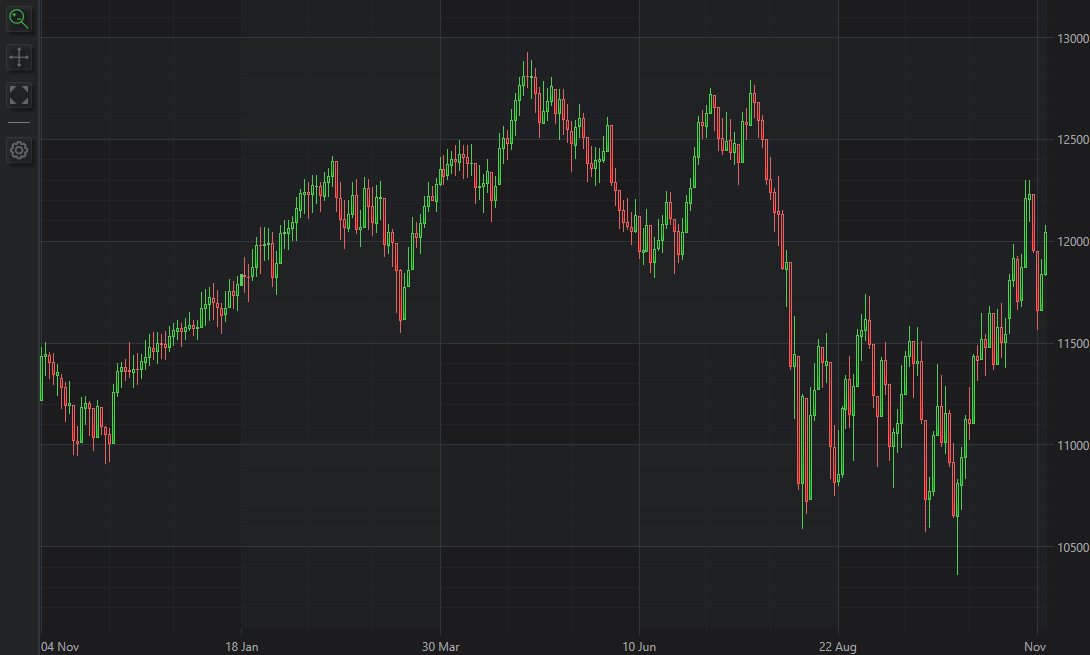
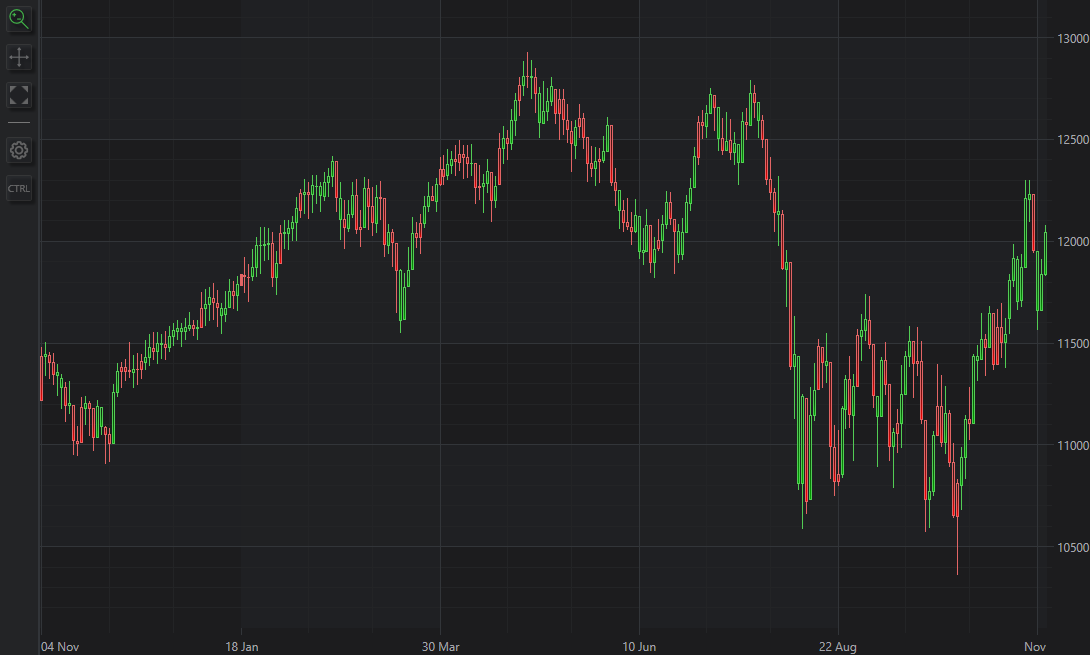
SciChart version 6.6.0.26489

diff --git a/Examples/SciChart.Examples/Examples/CreateSimpleChart/CandlestickChart/CandlestickChartExampleView.xaml b/Examples/SciChart.Examples/Examples/CreateSimpleChart/CandlestickChart/CandlestickChartExampleView.xaml
@@ -3,12 +3,12 @@
              xmlns:x="http://schemas.microsoft.com/winfx/2006/xaml"
              xmlns:s="http://schemas.abtsoftware.co.uk/scichart"
              xmlns:ext="http://schemas.abtsoftware.co.uk/scichart/exampleExternals"
-             Loaded="CandlestickChartExampleView_OnLoaded"
-             xmlns:mc="http://schemas.openxmlformats.org/markup-compatibility/2006"
-             xmlns:d="http://schemas.microsoft.com/expression/blend/2008"             
-             d:DesignHeight="400"
-             d:DesignWidth="600"
-             mc:Ignorable="d">
+             xmlns:local="clr-namespace:SciChart.Examples.Examples.CreateSimpleChart"
+             Loaded="CandlestickChartExampleView_OnLoaded">
+
+    <UserControl.Resources>
+        <local:HollowSolidPaletteProvider x:Key="HollowSolidPaletteProvider" FillNeutral="Gray"/>
+    </UserControl.Resources>
 
     <Grid>
         <Grid.ColumnDefinitions>
@@ -19,7 +19,17 @@
         <!-- The SciChartInteractionToolbar adds zoom, pan, zoom extents and rotate functionality -->
         <!-- to the chart and is included for example purposes. -->
         <!-- If you wish to know how to zoom and pan a chart then do a search for Zoom Pan in the Examples suite! -->
-        <ext:SciChartInteractionToolbar TargetSurface="{Binding Source={x:Reference Name=sciChart}}" />
+        <ext:SciChartInteractionToolbar TargetSurface="{Binding Source={x:Reference Name=sciChart}}">
+            <ext:FlyoutMenuButton Style="{StaticResource FlyoutMenuButtonStyle}" Content="CTRL" FontSize="10" Padding="0">
+                <ext:FlyoutMenuButton.PopupContent>
+                    <StackPanel Orientation="Vertical">
+                        <TextBlock FontSize="12" Text="Candlestick Chart"/>
+                        <RadioButton FontSize="12" Margin="4" Style="{StaticResource CheckRadioBtn}" Content="Regular" IsChecked="True"/>
+                        <RadioButton FontSize="12" Margin="4" Style="{StaticResource CheckRadioBtn}" Content="Hollow/Solid" x:Name="chHollowSolid"/>
+                    </StackPanel>
+                </ext:FlyoutMenuButton.PopupContent>
+            </ext:FlyoutMenuButton>
+        </ext:SciChartInteractionToolbar>
 
         <!--  Create the chart surface  -->
         <s:SciChartSurface Name="sciChart" Grid.Column="1"
@@ -33,33 +43,42 @@
                 <s:FastCandlestickRenderableSeries x:Name="candlestickSeries">
                     <s:FastCandlestickRenderableSeries.FillUp>
                         <LinearGradientBrush StartPoint="0,0" EndPoint="0,1">
-                            <GradientStop Offset="0" Color="#55002200" />
-                            <GradientStop Offset="1" Color="#FF00AA00" />
+                            <GradientStop Offset="0" Color="#55002200"/>
+                            <GradientStop Offset="1" Color="#FF00AA00"/>
                         </LinearGradientBrush>
                     </s:FastCandlestickRenderableSeries.FillUp>
                     <s:FastCandlestickRenderableSeries.FillDown>
                         <LinearGradientBrush StartPoint="0,0" EndPoint="0,1">
-                            <GradientStop Offset="0" Color="#55441111" />
-                            <GradientStop Offset="1" Color="#FFFF0000" />
+                            <GradientStop Offset="0" Color="#55441111"/>
+                            <GradientStop Offset="1" Color="#FFFF0000"/>
                         </LinearGradientBrush>
                     </s:FastCandlestickRenderableSeries.FillDown>
                     <s:FastCandlestickRenderableSeries.SeriesAnimation>
                         <s:SweepAnimation AnimationDelay="0:0:1" Duration="0:0:4"/>
                     </s:FastCandlestickRenderableSeries.SeriesAnimation>
+                    <s:FastCandlestickRenderableSeries.Style>
+                        <Style TargetType="s:FastCandlestickRenderableSeries">
+                            <Setter Property="PaletteProvider" Value="{x:Null}"/>
+                            <Style.Triggers>
+                                <DataTrigger Binding="{Binding IsChecked, ElementName=chHollowSolid}" Value="True">
+                                    <Setter Property="PaletteProvider" Value="{StaticResource HollowSolidPaletteProvider}"/>
+                                </DataTrigger>
+                            </Style.Triggers>
+                        </Style>
+                    </s:FastCandlestickRenderableSeries.Style>
                 </s:FastCandlestickRenderableSeries>
             </s:SciChartSurface.RenderableSeries>
 
             <!--  Create an X Axis  -->
             <s:SciChartSurface.XAxis>
-                <s:CategoryDateTimeAxis DrawMajorBands="True" />
+                <s:CategoryDateTimeAxis DrawMajorBands="True"/>
             </s:SciChartSurface.XAxis>
 
             <!--  Create a Y Axis with GrowBy  -->
             <s:SciChartSurface.YAxis>
-                <s:NumericAxis GrowBy="0.1, 0.1" DrawMajorBands="True" />
+                <s:NumericAxis GrowBy="0.1, 0.1" DrawMajorBands="True"/>
             </s:SciChartSurface.YAxis>
 
         </s:SciChartSurface>
     </Grid>
-
 </UserControl>

diff --git a/Examples/SciChart.Examples.ExternalDependencies/Data/DataManager.cs b/Examples/SciChart.Examples.ExternalDependencies/Data/DataManager.cs
@@ -76,6 +76,11 @@ namespace SciChart.Examples.ExternalDependencies.Data
         {
             return GetPriceData(string.Format("{0}_{1}", dataset, timeFrame));
         }
+
+        public PriceSeries GetPriceData(string dataset, TimeFrame timeFrame, bool swapOpenClose)
+        {
+            return GetPriceData(string.Format("{0}_{1}", dataset, timeFrame), swapOpenClose);
+        }
         
         public DoubleSeries GetDampedSinewave(double amplitude, double dampingFactor, int pointCount, int freq = 10)
         {
@@ -440,46 +445,62 @@ namespace SciChart.Examples.ExternalDependencies.Data
             return _acousticPlotData[channelNumber];
         }
 
-        public PriceSeries GetPriceData(string dataset)
+        public PriceSeries GetPriceData(string dataset, bool swapOpenClose = false)
         {
-            if (_dataSets.ContainsKey(dataset))
-            {
-                return _dataSets[dataset];
-            }
-
+            var dataSetKey = swapOpenClose ? $"{dataset}_OCSwap" : dataset;
+            if (_dataSets.ContainsKey(dataSetKey))
+                return _dataSets[dataSetKey];           
+            
             // e.g. resource format: SciChart.Examples.ExternalDependencies.Resources.Data.EURUSD_Daily.csv 
             var csvResource = string.Format("{0}.{1}", ResourceDirectory, Path.ChangeExtension(dataset, "csv.gz"));
-
-            var priceSeries = new PriceSeries();
-            priceSeries.Symbol = dataset;
-
+            var priceSeries = new PriceSeries {Symbol = dataset};
             var assembly = typeof(DataManager).Assembly;
-            // Debug.WriteLine(string.Join(", ", assembly.GetManifestResourceNames()));
+
             using (var stream = assembly.GetManifestResourceStream(csvResource))
             using (var gz = new GZipStream(stream, CompressionMode.Decompress))
             using (var streamReader = new StreamReader(gz))
             {
-                string line = streamReader.ReadLine();
+                var lineIndex = 0;
+                var line = streamReader.ReadLine();
+
                 while (line != null)
                 {
                     var priceBar = new PriceBar();
-                    // Line Format: 
+
                     // Date, Open, High, Low, Close, Volume 
                     // 2007.07.02 03:30, 1.35310, 1.35310, 1.35280, 1.35310, 12 
                     var tokens = line.Split(',');
-                    priceBar.DateTime = DateTime.Parse(tokens[0], DateTimeFormatInfo.InvariantInfo);
+
+                    priceBar.DateTime = DateTime.Parse(tokens[0], DateTimeFormatInfo.InvariantInfo);                  
                     priceBar.Open = double.Parse(tokens[1], NumberFormatInfo.InvariantInfo);
                     priceBar.High = double.Parse(tokens[2], NumberFormatInfo.InvariantInfo);
                     priceBar.Low = double.Parse(tokens[3], NumberFormatInfo.InvariantInfo);
                     priceBar.Close = double.Parse(tokens[4], NumberFormatInfo.InvariantInfo);
                     priceBar.Volume = long.Parse(tokens[5], NumberFormatInfo.InvariantInfo);
+
+                    if (swapOpenClose)
+                    {
+                        if (lineIndex % 5 == 0)
+                        {
+                            var open = priceBar.Open;
+                            var close = priceBar.Close;
+
+                            priceBar.Open = close;
+                            priceBar.Close = open;
+                        }
+                        
+                        if (lineIndex > 0 && lineIndex % 20 == 0)
+                            priceSeries[lineIndex - 1].Close = priceBar.Close;                       
+                    }
+
                     priceSeries.Add(priceBar);
 
+                    lineIndex++;
                     line = streamReader.ReadLine();
                 }
             }
 
-            _dataSets.Add(dataset, priceSeries);
+            _dataSets.Add(dataSetKey, priceSeries);
 
             return priceSeries;
         }

diff --git a/Examples/SciChart.Examples.Demo/Helpers/Example.cs b/Examples/SciChart.Examples.Demo/Helpers/Example.cs
@@ -19,7 +19,6 @@ using System.Collections.Generic;
 using System.Text.RegularExpressions;
 using System.Windows.Input;
 using SciChart.Examples.Demo.Common;
-using SciChart.UI.Reactive.Services;
 
 namespace SciChart.Examples.Demo.Helpers
 {
@@ -62,7 +61,9 @@ namespace SciChart.Examples.Demo.Helpers
                 .Replace("[/b][/i]", "</em></strong>")
                 .Replace("[/i][/b]", "</em></strong>")
                 .Replace("[/b]", "</strong>")
-                .Replace("[/i]", "</em>");
+                .Replace("[/i]", "</em>")
+                .Replace("[gt]", "&gt;")
+                .Replace("[lt]", "&lt;");
 
             const string replace = "<a href=\"$1\" target=\"_blank\">$2</a>";
 
@@ -86,37 +87,11 @@ namespace SciChart.Examples.Demo.Helpers
                 .Replace("[/b][/i]", "</Run>")
                 .Replace("[/i][/b]", "</Run>")
                 .Replace("[/b]", "</Run>")
-                .Replace("[/i]", "</Run>");
+                .Replace("[/i]", "</Run>")
+                .Replace("[gt]", "&gt;")
+                .Replace("[lt]", "&lt;");
 
-#if SILVERLIGHT
-            const string replace = "<Hyperlink Foreground=\"{StaticResource SciChartGreenBrush}\" " +
-                                            "MouseOverForeground=\"{StaticResource SciChartDarkGreenBrush}\" " + 
-                                            "TextDecorations=\"Underline\" " + 
-                                            "MouseOverTextDecorations=\"None\" " + 
-                                            "NavigateUri=\"$1\" TargetName=\"_blank\">" + 
-                                                "<Run>$2</Run>" + 
-                                   "</Hyperlink>";
-#else 
             const string replace = "<Hyperlink Style=\"{DynamicResource HyperlinkStyle}\" NavigateUri=\"$1\"><Run>$2</Run></Hyperlink>";
-#endif
-
-            // TO dump all links out to console, uncomment 
-            // 
-
-//            Regex urlRegexShort = new Regex(@"\[url='(.*?)'?\]");
-//            var allLinks = urlRegexShort.Matches(formatted)
-//                .Cast<Match>()
-//                .Select(x => x.ToString().Replace("url=[", "").Replace("]", ""))
-//                .Distinct()
-//                .Select(y => string.Format("{0}\t{1}", this.Title, y))
-//                .OrderBy(x => x)
-//                .ToList();
-//
-//            foreach (var match in allLinks)
-//            {
-//                Trace.WriteLine(match);
-//            }
-                
 
             formatted = _urlRegex.Replace(formatted, replace);
 
@@ -138,6 +113,8 @@ namespace SciChart.Examples.Demo.Helpers
                 .Replace("[/b]", string.Empty)
                 .Replace("[i]", string.Empty)
                 .Replace("[i]", string.Empty)
+                .Replace("[gt]", ">")
+                .Replace("[lt]", "<")
                 .Trim();
 
             formatted = _urlRegex.Replace(formatted, "$2");
@@ -197,6 +174,7 @@ namespace SciChart.Examples.Demo.Helpers
                 {
                     var index = file.LastIndexOf('/') + 1;
                     var fileName = file.Substring(index).Replace(".txt", String.Empty);
+
                     _sourceFiles[fileName] = ExampleLoader.LoadSourceFile(file);
                 });
             }

diff --git a/Examples/SciChart.Examples/Examples/CreateSimpleChart/CandlestickChart/HollowSolidPaletteProvider.cs b/Examples/SciChart.Examples/Examples/CreateSimpleChart/CandlestickChart/HollowSolidPaletteProvider.cs
@@ -1,0 +1,76 @@
+// *************************************************************************************
+// SCICHART® Copyright SciChart Ltd. 2011-2022. All rights reserved.
+//  
+// Web: http://www.scichart.com
+//   Support: support@scichart.com
+//   Sales:   sales@scichart.com
+// 
+// HollowCandlesPaletteProvider.xaml.cs is part of the SCICHART® Examples. Permission is
+// hereby granted to modify, create derivative works, distribute and publish any part of
+// this source code whether for commercial, private or personal use. 
+// 
+// The SCICHART® examples are distributed in the hope that they will be useful, but
+// without any warranty. It is provided "AS IS" without warranty of any kind, either
+// expressed or implied. 
+// *************************************************************************************
+using System;
+using System.Windows.Media;
+using SciChart.Charting.Model.DataSeries;
+using SciChart.Charting.Visuals.PaletteProviders;
+using SciChart.Charting.Visuals.RenderableSeries;
+using SciChart.Core.Extensions;
+
+namespace SciChart.Examples.Examples.CreateSimpleChart
+{
+    public class HollowSolidPaletteProvider : IStrokePaletteProvider, IFillPaletteProvider
+    {
+        private IOhlcDataSeries<DateTime, double> _dataSeries;
+
+        private Brush _candleBrush;
+
+        public Brush FillUp { get; private set; }
+        public Brush FillDown { get; private set; }
+        public Brush FillNeutral { get; set; }
+
+        public void OnBeginSeriesDraw(IRenderableSeries rSeries)
+        {
+            _dataSeries = rSeries.DataSeries as IOhlcDataSeries<DateTime, double>;
+
+            if (rSeries is FastCandlestickRenderableSeries candlestickSeries)
+            {
+                FillUp = new SolidColorBrush(candlestickSeries.StrokeUp);
+
+                FillDown = new SolidColorBrush(candlestickSeries.StrokeDown);
+            }
+        }
+
+        public Color? OverrideStrokeColor(IRenderableSeries rSeries, int index, IPointMetadata metadata)
+        {
+            _candleBrush = GetBrush(index);
+
+            return _candleBrush.ExtractColor();
+        }
+
+        public Brush OverrideFillBrush(IRenderableSeries rSeries, int index, IPointMetadata metadata)
+        {
+            var open = _dataSeries.OpenValues[index];
+            var close = _dataSeries.CloseValues[index];
+
+            return close >= open ? Brushes.Transparent : _candleBrush;
+        }
+
+        private Brush GetBrush(int index)
+        {
+            var close = _dataSeries.CloseValues[index];
+            var prevClose = index > 0 ? _dataSeries.CloseValues[index - 1] : double.MinValue;
+
+            if (close > prevClose)
+                return FillUp;
+
+            if (close == prevClose)
+                return FillNeutral;
+
+            return FillDown;
+        }
+    }
+}

diff --git a/Examples/SciChart.Examples/Examples/CreateSimpleChart/CandlestickChart/CandlestickChartExampleView.xaml.cs b/Examples/SciChart.Examples/Examples/CreateSimpleChart/CandlestickChart/CandlestickChartExampleView.xaml.cs
@@ -5,9 +5,9 @@
 //   Support: support@scichart.com
 //   Sales:   sales@scichart.com
 // 
-// CandlestickChartExampleView.xaml.cs is part of the SCICHART® Examples. Permission is hereby granted
-// to modify, create derivative works, distribute and publish any part of this source
-// code whether for commercial, private or personal use. 
+// CandlestickChartExampleView.xaml.cs is part of the SCICHART® Examples. Permission is
+// hereby granted to modify, create derivative works, distribute and publish any part of
+// this source code whether for commercial, private or personal use. 
 // 
 // The SCICHART® examples are distributed in the hope that they will be useful, but
 // without any warranty. It is provided "AS IS" without warranty of any kind, either
@@ -16,9 +16,7 @@
 using System;
 using System.Windows;
 using System.Windows.Controls;
-using System.Windows.Media.Animation;
 using SciChart.Charting.Model.DataSeries;
-using SciChart.Charting.Visuals.RenderableSeries.Animations;
 using SciChart.Examples.ExternalDependencies.Common;
 using SciChart.Examples.ExternalDependencies.Data;
 
@@ -34,11 +32,11 @@ namespace SciChart.Examples.Examples.CreateSimpleChart
         private void CandlestickChartExampleView_OnLoaded(object sender, RoutedEventArgs e)
         {
             // Create a dataset of type x=DateTime, y=Double
-            var dataSeries = new OhlcDataSeries<DateTime, double>();                     
+            var dataSeries = new OhlcDataSeries<DateTime, double>();
 
             // Prices are in the format Time, Open, High, Low, Close (all IList)
-            var prices = DataManager.Instance.GetPriceData(Instrument.Indu.Value, TimeFrame.Daily);            
-            
+            var prices = DataManager.Instance.GetPriceData(Instrument.Indu.Value, TimeFrame.Daily, true);
+
             // Append data to series. SciChart automatically redraws
             dataSeries.Append(
                 prices.TimeData,
@@ -52,5 +50,5 @@ namespace SciChart.Examples.Examples.CreateSimpleChart
             // Zoom Extents - necessary as we have AutoRange=False
             sciChart.ZoomExtents();
         }
-    }
+    }   
 }

diff --git a/Examples/AssemblyInfoCommon.cs b/Examples/AssemblyInfoCommon.cs
@@ -42,4 +42,4 @@ using System.Runtime.InteropServices;
 
 // NOTE: MASTER SHOULD KEEP THIS AS V7.x WHEN MERGING. 
 // This is to prevent conflicts in teamcity when tests are run on both master & v6 branch at the same time. 
-[assembly: AssemblyVersion("6.6.0.26458")]
+[assembly: AssemblyVersion("6.6.0.26489")]
